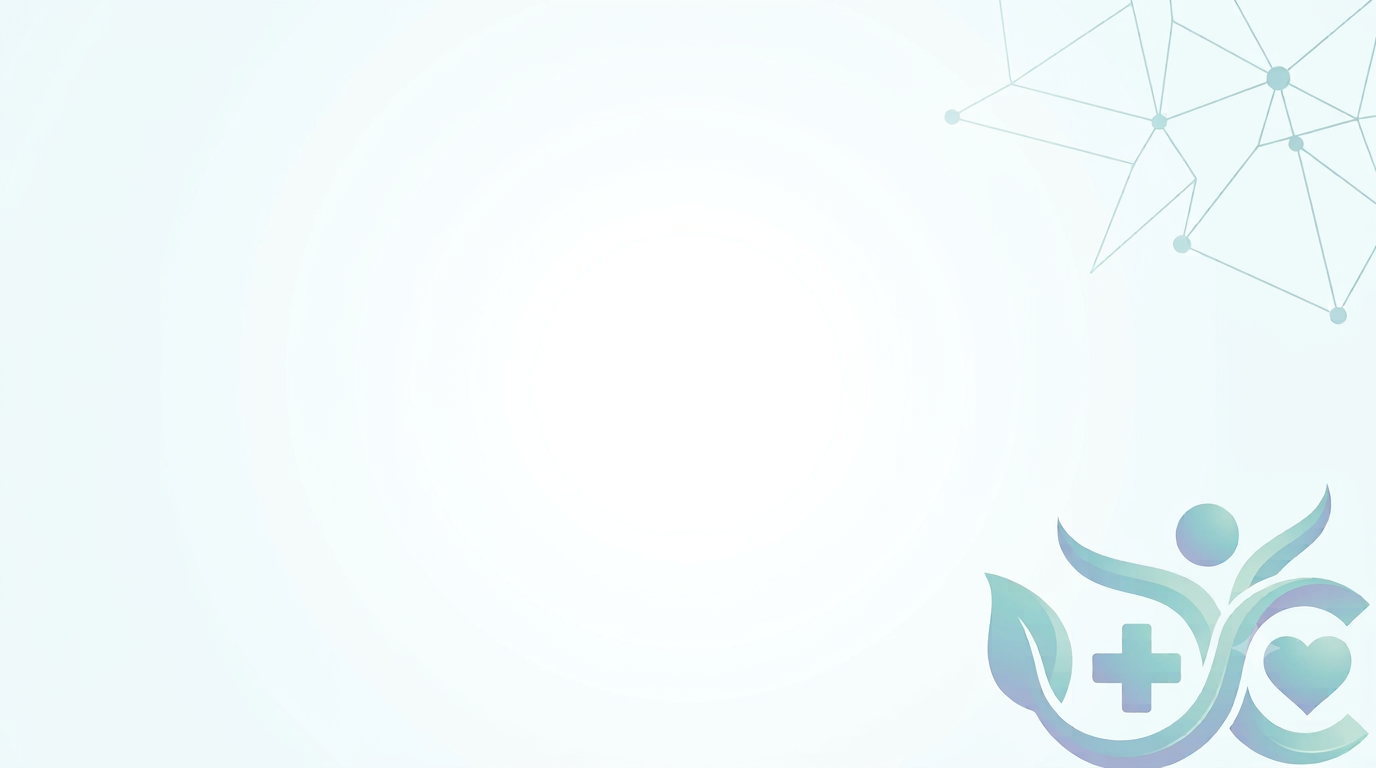
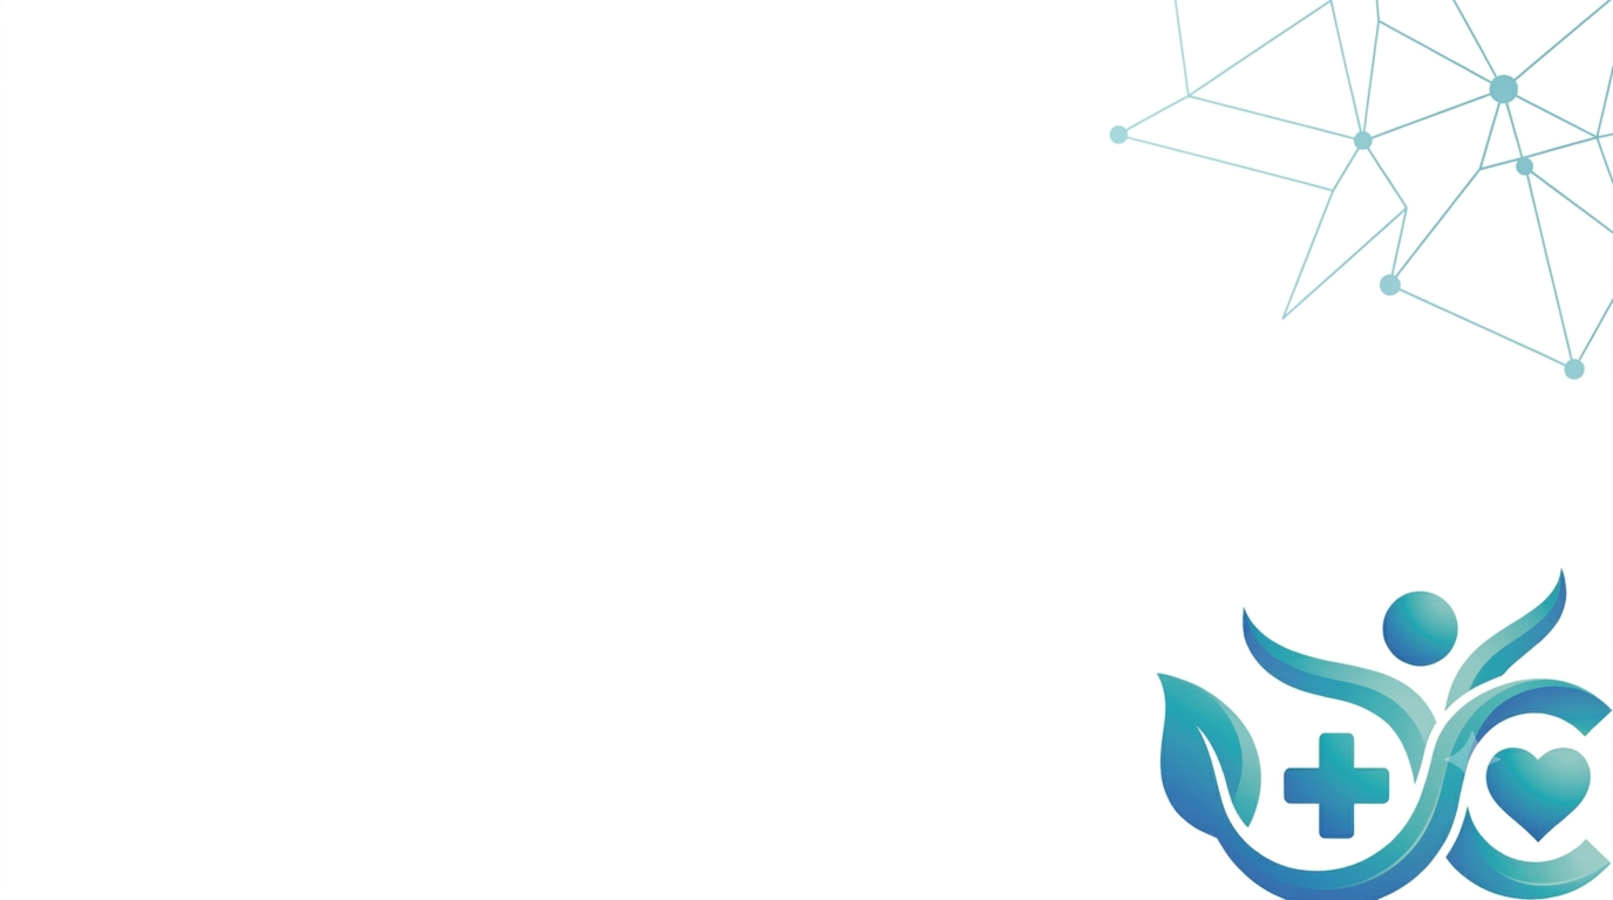
ajusto login redimensionando fondo de imagen y mejorando el tamano y centrado de contenedor login

diff --git a/src/view/Login.java b/src/view/Login.java
@@ -38,7 +38,7 @@ public class Login extends JFrame {
         
         this.panelLogin = new JPanel();
         this.panelLogin.setLayout(new GridLayout(1, 2));
-        this.panelLogin.setPreferredSize(new Dimension(800,500));
+        this.panelLogin.setPreferredSize(new Dimension(750,420));
         this.panelLogin.setBorder(BorderFactory.createLineBorder(new Color(0, 194, 177)));
         //Primer panel
         this.panel1 = new JPanel();//Creo el panel1